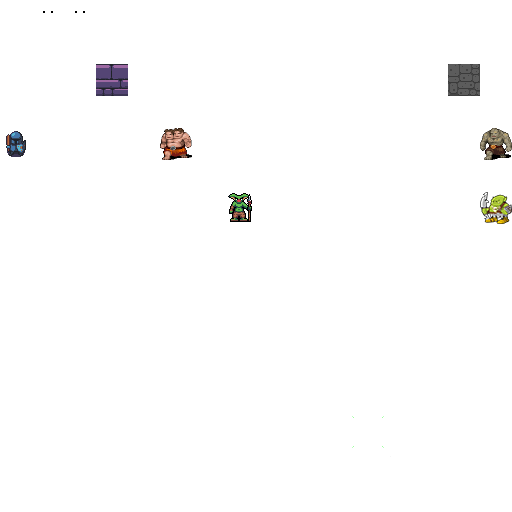
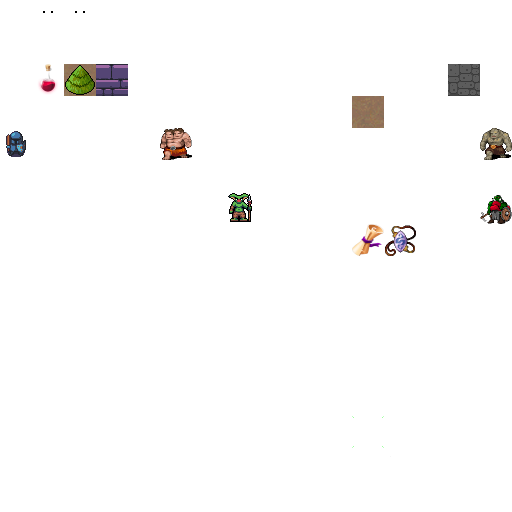
Amulet of Yala

diff --git a/src/main.rs b/src/main.rs
@@ -40,6 +40,7 @@ impl State {
         let mut rng = RandomNumberGenerator::new();
         let map_builder = MapBuilder::build(&mut rng);
         spawn_player(&mut ecs, map_builder.player_start);
+        spawn_amulet_of_yala(&mut ecs, map_builder.amulet_start);
         map_builder.rooms
             .iter()
             .skip(1)
@@ -60,29 +61,48 @@ impl State {
     fn game_over(&mut self, ctx: &mut BTerm) {
         ctx.set_active_console(2);
         ctx.print_color_centered(2, RED, BLACK, "Your quest has ended.");
-        ctx.print_color_centered(4, RED, BLACK, "Slain by a monster, your hero's journey has come to a \
+        ctx.print_color_centered(4, WHITE, BLACK, "Slain by a monster, your hero's journey has come to a \
         premature end.");
-        ctx.print_color_centered(5, RED, BLACK, "The Amulet of Yala remains unclaimed, and your home town \
+        ctx.print_color_centered(5, WHITE, BLACK, "The Amulet of Yala remains unclaimed, and your home town \
         is not saved.");
-        ctx.print_color_centered(8, RED, BLACK, "Don't worry, you can always try again with a new hero.");
-        ctx.print_color_centered(9, RED, BLACK, "Press 1 to play again.");
+        ctx.print_color_centered(8, YELLOW, BLACK, "Don't worry, you can always try again with a new hero.");
+        ctx.print_color_centered(9, GREEN, BLACK, "Press 1 to play again.");
 
         if let Some(VirtualKeyCode::Key1) = ctx.key {
-            self.ecs = World::default();
-            self.resources = Resources::default();
-            let mut rng = RandomNumberGenerator::new();
-            let map_builder = MapBuilder::build(&mut rng);
-            spawn_player(&mut self.ecs, map_builder.player_start);
-            map_builder.rooms
-                .iter()
-                .skip(1)
-                .map(|r| r.center())
-                .for_each(|pos| spawn_monster(&mut self.ecs, &mut rng, pos))
-            ;
-            self.resources.insert(map_builder.map);
-            self.resources.insert(Camera::new(map_builder.player_start));
-            self.resources.insert(TurnState::AwaitingInput);
+            self.reset_game_state();
         }
+    }
+    fn victory(&mut self, ctx: &mut BTerm) {
+        ctx.set_active_console(2);
+        ctx.print_color_centered(2, GREEN, BLACK, "You have won!");
+        ctx.print_color_centered(4, WHITE, BLACK,
+            "You put on the Amulet of YALA and feel its power course through \
+            your veins.");
+        ctx.print_color_centered(5, WHITE, BLACK,
+        "Your town is saved, and you can return to your normal life.");
+        ctx.print_color_centered(7, GREEN, BLACK, "Press 1 to \
+        play again.");
+
+        if let Some(VirtualKeyCode::Key1) = ctx.key {
+            self.reset_game_state();
+        }
+    }
+    fn reset_game_state(&mut self) {
+        self.ecs = World::default();
+        self.resources = Resources::default();
+        let mut rng = RandomNumberGenerator::new();
+        let map_builder = MapBuilder::build(&mut rng);
+        spawn_player(&mut self.ecs, map_builder.player_start);
+        spawn_amulet_of_yala(&mut self.ecs, map_builder.amulet_start);
+        map_builder.rooms
+            .iter()
+            .skip(1)
+            .map(|r| r.center())
+            .for_each(|pos| spawn_monster(&mut self.ecs, &mut rng, pos))
+        ;
+        self.resources.insert(map_builder.map);
+        self.resources.insert(Camera::new(map_builder.player_start));
+        self.resources.insert(TurnState::AwaitingInput);
     }
 }
 impl GameState for State {
@@ -108,6 +128,7 @@ impl GameState for State {
                 &mut self.ecs, &mut self.resources
             ),
             TurnState::GameOver => self.game_over(ctx),
+            TurnState::Victory => self.victory(ctx),
         }
         render_draw_buffer(ctx).expect("Render error");
     }

diff --git a/src/systems/end_turn.rs b/src/systems/end_turn.rs
@@ -3,11 +3,14 @@ use crate::prelude::*;
 #[system]
 #[read_component(Health)]
 #[read_component(Player)]
+#[read_component(Point)]
+#[read_component(AmuletOfYala)]
 pub fn end_turn(
     ecs: &SubWorld,
     #[resource] turn_state: &mut TurnState
 ) {
-    let mut player_hp = <&Health>::query().filter(component::<Player>());
+    let mut player = <(&Health, &Point)>::query().filter(component::<Player>());
+    let mut amulet = <&Point>::query().filter(component::<AmuletOfYala>());
     let current_state = turn_state.clone();
     let mut new_state = match current_state {
         TurnState::AwaitingInput => return,
@@ -15,9 +18,13 @@ pub fn end_turn(
         TurnState::MonsterTurn => TurnState::AwaitingInput,
         _ => current_state,
     };
-    player_hp.iter(ecs).for_each(|hp| {
+    let amulet_pos = amulet.iter(ecs).nth(0).unwrap();
+    player.iter(ecs).for_each(|(hp, pos)| {
         if hp.current < 1 {
             new_state = TurnState::GameOver;
+        }
+        if pos == amulet_pos {
+            new_state = TurnState::Victory;
         }
     });
     *turn_state = new_state;

diff --git a/src/map_builder.rs b/src/map_builder.rs
@@ -5,6 +5,7 @@ pub struct MapBuilder {
     pub map: Map,
     pub rooms: Vec<Rect>,
     pub player_start: Point,
+    pub amulet_start: Point
 }
 impl MapBuilder {
     fn fill(&mut self, tile: TileType) {
@@ -74,11 +75,27 @@ impl MapBuilder {
             map: Map::new(),
             rooms: Vec::new(),
             player_start: Point::zero(),
+            amulet_start: Point::zero(),
         };
         mb.fill(TileType::Wall);
         mb.build_random_rooms(rng);
         mb.build_corridors(rng);
         mb.player_start = mb.rooms[0].center();
+        let dijkstra_map = DijkstraMap::new(
+            SCREEN_WIDTH,
+            SCREEN_HEIGHT,
+            &vec![mb.map.point2d_to_index(mb.player_start)],
+            &mb.map,
+            1024.0
+        );
+        mb.amulet_start = mb.map.index_to_point2d(
+            dijkstra_map.map
+                .iter()
+                .enumerate()
+                .filter(|(_, dist)| *dist < &std::f32::MAX)
+                .max_by(|a, b| a.1.partial_cmp(b.1).unwrap())
+                .unwrap().0
+        );
         mb
     }
 }

diff --git a/src/spawner.rs b/src/spawner.rs
@@ -53,3 +53,18 @@ pub fn spawn_monster(
         )
     );
 }
+
+pub fn spawn_amulet_of_yala(ecs: &mut World, pos: Point) {
+    ecs.push(
+        (
+            Item,
+            AmuletOfYala,
+            pos,
+            Render {
+                color: ColorPair::new(WHITE, BLACK),
+                glyph: to_cp437('|')
+            },
+            Name("Amulet of Yala".to_string())
+        )
+    );
+}

diff --git a/src/components.rs b/src/components.rs
@@ -39,3 +39,9 @@ pub struct Name(pub String);
 
 #[derive(Clone, Copy, Debug, PartialEq)]
 pub struct ChasingPlayer;
+
+#[derive(Clone, Copy, Debug, PartialEq)]
+pub struct Item;
+
+#[derive(Clone, Copy, Debug, PartialEq)]
+pub struct AmuletOfYala;

diff --git a/src/turn_state.rs b/src/turn_state.rs
@@ -3,5 +3,6 @@ pub enum TurnState {
     AwaitingInput,
     PlayerTurn,
     MonsterTurn,
-    GameOver
+    GameOver,
+    Victory,
 }
